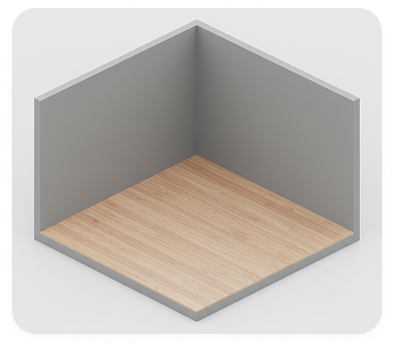
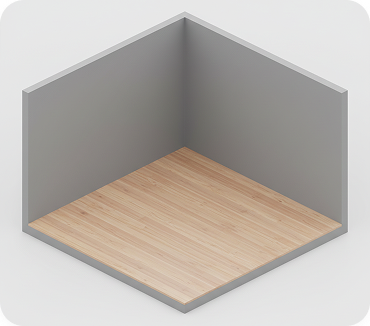
fix(home): close final Figma fidelity blockers
Ultraworked with [omo](https://github.com/code-yeongyu/oh-my-openagent)

diff --git a/ios/App/LoginSheet.swift b/ios/App/LoginSheet.swift
@@ -36,11 +36,23 @@ struct LoginSheet: View {
                             }
                         }
                     } label: {
-                        Label("Google로 계속하기", systemImage: "g.circle.fill")
-                            .font(PlanteriorTypography.body.weight(.semibold))
-                            .foregroundStyle(PlanteriorPalette.textPrimary.color)
-                            .frame(maxWidth: .infinity)
-                            .frame(minHeight: PlanteriorControl.primaryButtonHeight)
+                        HStack(spacing: PlanteriorSpacing.small) {
+                            if let googleMark {
+                                Image(uiImage: googleMark)
+                                    .resizable()
+                                    .scaledToFit()
+                                    .frame(
+                                        width: PlanteriorSpacing.large,
+                                        height: PlanteriorSpacing.large
+                                    )
+                                    .accessibilityHidden(true)
+                            }
+                            Text("Google로 계속하기")
+                        }
+                        .font(PlanteriorTypography.body.weight(.semibold))
+                        .foregroundStyle(PlanteriorPalette.textPrimary.color)
+                        .frame(maxWidth: .infinity)
+                        .frame(minHeight: PlanteriorControl.primaryButtonHeight)
                     }
                     .buttonStyle(.plain)
                     .background(PlanteriorPalette.surface.color)
@@ -75,7 +87,22 @@ struct LoginSheet: View {
                     .signInWithAppleButtonStyle(.black)
                     .frame(minHeight: PlanteriorControl.primaryButtonHeight)
                     .clipShape(Capsule())
+                    .overlay {
+                        HStack(spacing: PlanteriorSpacing.small) {
+                            Image(systemName: "apple.logo")
+                                .accessibilityHidden(true)
+                            Text("Apple로 계속하기")
+                        }
+                        .font(PlanteriorTypography.body.weight(.semibold))
+                        .foregroundStyle(.white)
+                        .frame(maxWidth: .infinity, maxHeight: .infinity)
+                        .background(.black)
+                        .allowsHitTesting(false)
+                        .accessibilityHidden(true)
+                    }
+                    .clipShape(Capsule())
                     .padding(.top, PlanteriorSpacing.small)
+                    .accessibilityLabel("Apple로 계속하기")
                     .accessibilityIdentifier("auth.apple")
 
                     Text("로그인 시 서비스 이용 약관 및 개인정보 처리방침에 동의하는 것으로 간주됩니다.")
@@ -97,6 +124,16 @@ struct LoginSheet: View {
             .scrollIndicators(.hidden)
             .scrollBounceBehavior(.basedOnSize)
         }
+    }
+
+    private var googleMark: UIImage? {
+        guard let bundleURL = Bundle.main.url(
+            forResource: "GoogleSignIn_GoogleSignIn",
+            withExtension: "bundle"
+        ), let bundle = Bundle(url: bundleURL) else {
+            return nil
+        }
+        return UIImage(named: "google", in: bundle, compatibleWith: nil)
     }
 }
 

diff --git a/ios/App/HomeDashboardView+Rename.swift b/ios/App/HomeDashboardView+Rename.swift
@@ -5,21 +5,21 @@ import SwiftUI
 extension HomeDashboardView {
     /// Figma `modal-overlay` §6.9. Free and paid share every dimension; only the
     /// trailing cost affordance on the save button changes.
-    @ViewBuilder
     var renameDialog: some View {
-        if isRenamePresented {
-            ZStack {
-                Color.black.opacity(PlanteriorOpacity.dimmer)
-                    .ignoresSafeArea()
-                    .onTapGesture(perform: dismissRename)
-                    .accessibilityHidden(true)
-                dialogCard
-                    .offset(y: 26)
-            }
-            .transition(
-                effectiveReduceMotion ? .identity : .opacity
-            )
+        ZStack {
+            Color.black.opacity(PlanteriorOpacity.dimmer)
+                .ignoresSafeArea()
+                .onTapGesture(perform: dismissRename)
+                .accessibilityHidden(true)
+            dialogCard
         }
+        .frame(maxWidth: .infinity, maxHeight: .infinity)
+        .ignoresSafeArea()
+        .accessibilityElement(children: .contain)
+        .accessibilityIdentifier("home.rename.overlay")
+        .transition(
+            effectiveReduceMotion ? .identity : .opacity
+        )
     }
 
     private var dialogCard: some View {
@@ -114,6 +114,7 @@ extension HomeDashboardView {
                         Text("저장")
                             .font(PlanteriorTypography.supporting.weight(.semibold))
                         costAffordance
+                        paidBalanceAffordance
                     }
                     .padding(.vertical, PlanteriorSpacing.small)
                     .fixedSize(horizontal: false, vertical: true)
@@ -150,13 +151,26 @@ extension HomeDashboardView {
                 .foregroundStyle(PlanteriorPalette.textOnAccent.color.opacity(0.7))
                 .accessibilityIdentifier("home.rename.cost")
         case let .paid(cost, _), let .insufficient(cost, _):
-            Image(systemName: "circle.fill")
-                .font(.system(size: 9))
+            Image(systemName: "wonsign.circle.fill")
+                .font(PlanteriorTypography.caption.weight(.bold))
                 .foregroundStyle(PlanteriorPalette.warning.color)
+                .accessibilityLabel("크레딧")
                 .accessibilityIdentifier("home.rename.cost.coin")
             Text("\(cost)")
                 .font(PlanteriorTypography.caption.weight(.semibold))
                 .accessibilityIdentifier("home.rename.cost")
+        }
+    }
+
+    @ViewBuilder
+    private var paidBalanceAffordance: some View {
+        switch renameQuote {
+        case .free:
+            EmptyView()
+        case let .paid(_, balance), let .insufficient(_, balance):
+            Text("보유 \(balance)")
+                .font(PlanteriorTypography.caption)
+                .accessibilityIdentifier("home.rename.balance")
         }
     }
 

diff --git a/ios/Tests/PlanteriorUITests/HomeDashboardUITests+FigmaCapture.swift b/ios/Tests/PlanteriorUITests/HomeDashboardUITests+FigmaCapture.swift
@@ -10,6 +10,29 @@ import XCTest
 /// screenshot. Assertions here stay structural (identifier, hittability,
 /// stacking order) so the harness never pins copy or pixel geometry.
 extension HomeDashboardUITests {
+    func testCaptureAuthenticatedHomeState() {
+        let app = XCUIApplication()
+        applyAuthenticatedFigmaLaunch(app)
+        app.launch()
+
+        let greeting = app.staticTexts["home.greeting"]
+        XCTAssertTrue(greeting.waitForExistence(timeout: 10))
+        XCTAssertEqual(greeting.label, "안녕하세요, 민지님!")
+        XCTAssertEqual(app.buttons["home.room.title"].label, "민지의 미니 식물원 🏡")
+        attachFigmaScreenshot(named: "home-authenticated")
+    }
+
+    func testCaptureLoggedOutHomeState() {
+        let app = XCUIApplication()
+        app.launchEnvironment["QA_SKIP_ONBOARDING"] = "1"
+        app.launchEnvironment["QA_AUTHENTICATED"] = "0"
+        app.launchEnvironment["QA_RESET_COLLECTION"] = "1"
+        app.launch()
+
+        XCTAssertTrue(app.staticTexts["home.greeting"].waitForExistence(timeout: 10))
+        attachFigmaScreenshot(named: "home-logged-out")
+    }
+
     func testCaptureRenameFreeState() {
         let app = XCUIApplication()
         applyAuthenticatedFigmaLaunch(app)
@@ -34,6 +57,10 @@ extension HomeDashboardUITests {
     func testCaptureSignInSheetState() {
         let app = XCUIApplication()
         app.launchEnvironment["QA_SKIP_ONBOARDING"] = "1"
+        app.launchArguments += [
+            "-AppleLanguages", "(ko)",
+            "-AppleLocale", "ko_KR"
+        ]
         app.launch()
 
         let link = app.buttons["home.login.link"]
@@ -45,6 +72,8 @@ extension HomeDashboardUITests {
         XCTAssertTrue(google.waitForExistence(timeout: 5))
         XCTAssertTrue(apple.exists)
         XCTAssertLessThan(google.frame.minY, apple.frame.minY)
+        XCTAssertEqual(google.label, "Google로 계속하기")
+        XCTAssertEqual(apple.label, "Apple로 계속하기")
         attachFigmaScreenshot(named: "home-sign-in-sheet")
     }
 

diff --git a/ios/App/HomeDashboardView.swift b/ios/App/HomeDashboardView.swift
@@ -30,10 +30,11 @@ struct HomeDashboardView: View {
     /// `home.screen` is the single vertical scroll owner for the whole Home
     /// surface; nothing below it introduces a second scroll view.
     var body: some View {
-        ZStack {
-            homeSurface
-            renameDialog
-        }
+        homeSurface
+            .fullScreenCover(isPresented: $isRenamePresented) {
+                renameDialog
+                    .presentationBackground(.clear)
+            }
     }
 
     private var homeSurface: some View {
@@ -42,11 +43,10 @@ struct HomeDashboardView: View {
                 homeHeader
                 signingInIndicator
                 miniHomeSection
-                    .padding(.top, -19)
                 weatherWarningBanner
                     .padding(.top, PlanteriorSpacing.large)
                 careSection
-                    .padding(.top, 9)
+                    .padding(.top, PlanteriorSpacing.small)
                 if authenticationState == .authenticated {
                     weatherSection
                         .id("home.weather.section")
@@ -58,7 +58,6 @@ struct HomeDashboardView: View {
                 }
             }
             .frame(maxWidth: .infinity, alignment: .leading)
-            .padding(.top, -8)
             .padding(.bottom, PlanteriorSpacing.large)
         }
         .contentMargins(
@@ -66,6 +65,7 @@ struct HomeDashboardView: View {
             PlanteriorLayout.contentGutter,
             for: .scrollContent
         )
+        .contentMargins(.top, 0, for: .scrollContent)
         .accessibilityIdentifier("home.screen")
         .background(PlanteriorPalette.canvas.color)
         .environment(\.sizeCategory, effectiveSizeCategory)

diff --git a/ios/Tests/PlanteriorUITests/HomeDashboardUITests+FigmaRename.swift b/ios/Tests/PlanteriorUITests/HomeDashboardUITests+FigmaRename.swift
@@ -15,10 +15,28 @@ extension HomeDashboardUITests {
         app.launch()
 
         XCTAssertTrue(app.buttons["home.room.title"].waitForExistence(timeout: 10))
+        let tabFrame = app.buttons["tab.home"].frame
         app.buttons["home.room.title"].tap()
 
+        let overlay = app.descendants(matching: .any)["home.rename.overlay"]
         let dialog = app.descendants(matching: .any)["home.rename.dialog"]
+        XCTAssertTrue(overlay.waitForExistence(timeout: 5))
         XCTAssertTrue(dialog.waitForExistence(timeout: 5))
+        XCTAssertEqual(overlay.frame.minX, 0, accuracy: 1)
+        XCTAssertEqual(overlay.frame.minY, 0, accuracy: 1)
+        XCTAssertEqual(overlay.frame.width, 402, accuracy: 1)
+        XCTAssertEqual(overlay.frame.height, 874, accuracy: 1)
+        XCTAssertTrue(
+            overlay.frame.contains(
+                CGPoint(x: tabFrame.midX, y: tabFrame.midY)
+            ),
+            "the dimmed modal overlay must own the shell and cover tab chrome"
+        )
+        XCTAssertFalse(
+            app.buttons["tab.home"].isHittable,
+            "tab chrome must not remain interactive above the rename dimmer"
+        )
+        XCTAssertEqual(dialog.frame.minY, 340, accuracy: 1)
         XCTAssertEqual(app.staticTexts["home.rename.title"].label, "홈피 이름 변경")
 
         let input = app.textFields["home.rename.input"]

diff --git a/ios/App/HomeDashboardView+Auth.swift b/ios/App/HomeDashboardView+Auth.swift
@@ -22,7 +22,11 @@ extension HomeDashboardView {
                     notificationButton
                 }
             }
+            // The title's visible line owns a 20pt track while its button keeps
+            // the 44pt hit target and may extend beyond that layout track. This
+            // preserves the Figma media cadence without negative section gaps.
             titleRow
+                .frame(height: PlanteriorSpacing.extraLarge, alignment: .leading)
         }
         .padding(.horizontal, PlanteriorSpacing.extraSmall)
         .accessibilityElement(children: .contain)

diff --git a/ios/App/HomeDashboardView+Care.swift b/ios/App/HomeDashboardView+Care.swift
@@ -66,7 +66,7 @@ extension HomeDashboardView {
 
     private func careRow(_ item: HomeCareItem, index: Int) -> some View {
         HStack(spacing: PlanteriorSpacing.medium) {
-            Image(index == 0 ? .homePlantMonstera : .homePlantSnake)
+            Image(index == 0 ? .homePlantSnake : .homePlantMonstera)
                 .resizable()
                 .scaledToFill()
                 .frame(
